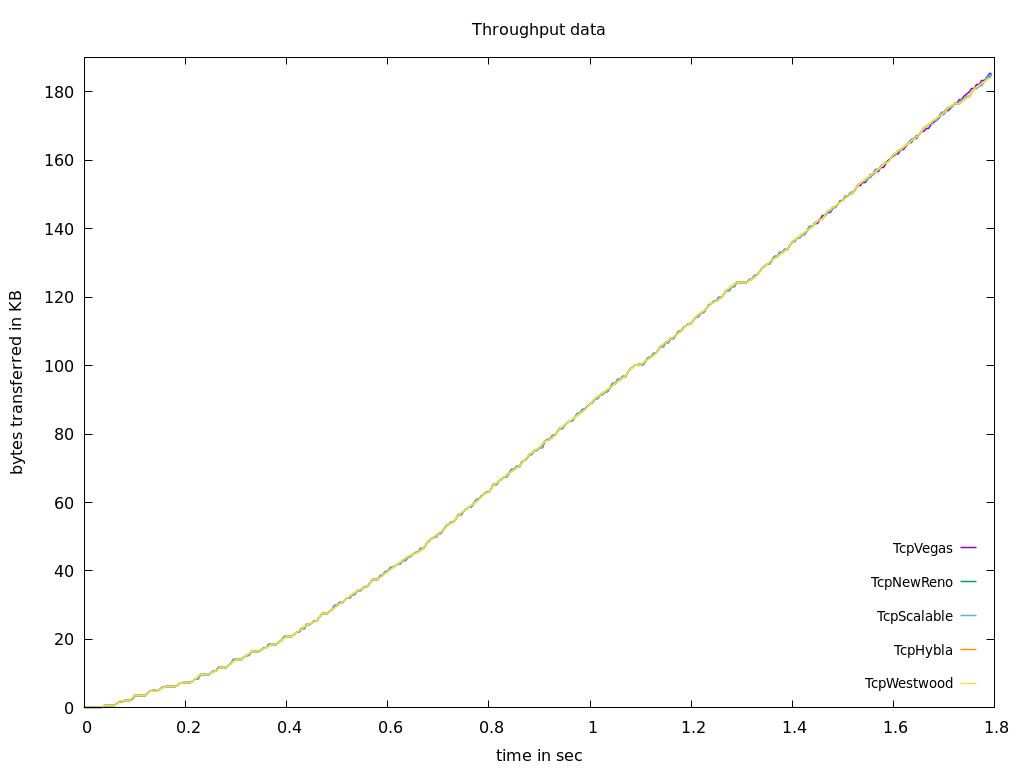
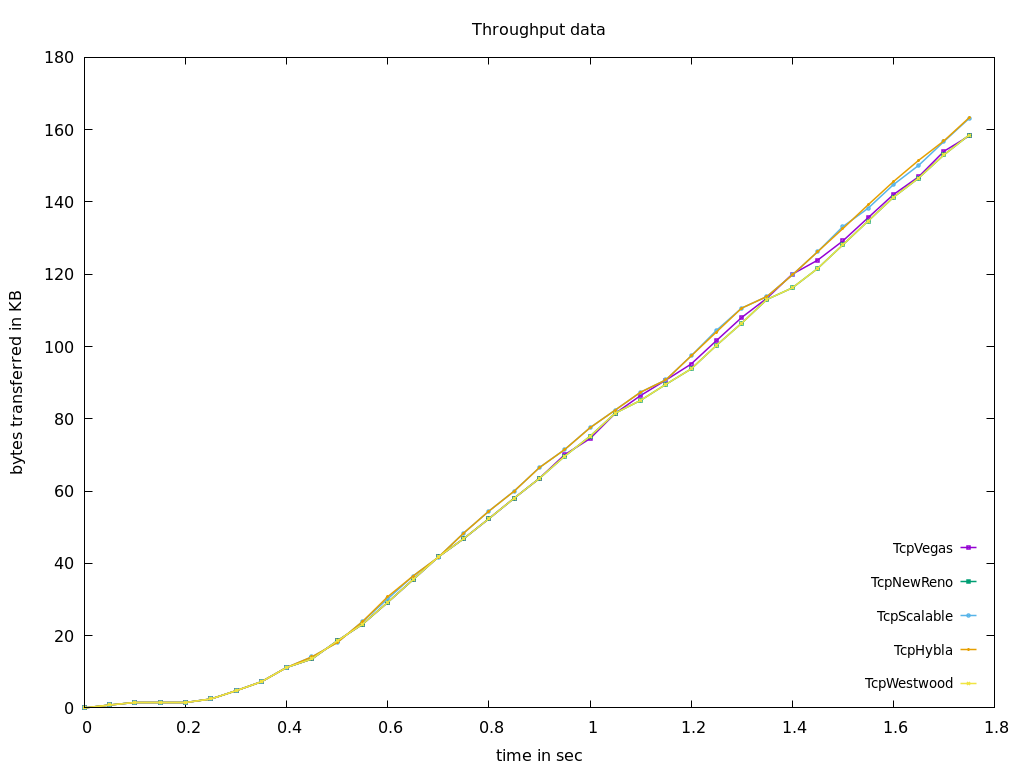
Added new plots, changed error rate for better difference

diff --git a/group15.cc b/group15.cc
@@ -179,8 +179,8 @@ void ThroughputMonitor (Ptr<OutputStreamWrapper> stream, FlowMonitorHelper *fmhe
     localThrou += stats->second.rxBytes;
   }
   *stream->GetStream() << time << "\t" << ((double)localThrou/1000) << '\n';
-  time += 0.005;
-  Simulator::Schedule(Seconds(0.005),&ThroughputMonitor, stream , fmhelper, flowMon);
+  time += 0.05;
+  Simulator::Schedule(Seconds(0.05),&ThroughputMonitor, stream , fmhelper, flowMon);
   {
     flowMon->SerializeToXmlFile ("ThroughputMonitor.xml", true, true);
   }
@@ -298,7 +298,7 @@ main (int argc, char *argv[])
 
 
   Ptr<RateErrorModel> error_model = CreateObject<RateErrorModel> ();
-  error_model->SetAttribute ("ErrorRate", DoubleValue (0.00001));
+  error_model->SetAttribute ("ErrorRate", DoubleValue (0.0001));
   devices.Get (1)->SetAttribute ("ReceiveErrorModel", PointerValue (error_model));
 
   Ipv4AddressHelper address;
